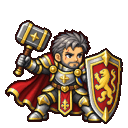
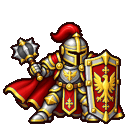
Webの版を更新（2026-10-20 09:13）

diff --git a/index.html b/index.html
@@ -10,7 +10,7 @@
   <meta name="theme-color" content="#161c28">
   <meta name="format-detection" content="telephone=no">
   <title>セルトリア戦記 SELTRIA CHRONICLES</title>
-  <link rel="stylesheet" href="css/style.css?v=20261020c">
+  <link rel="stylesheet" href="css/style.css?v=20261020d">
 </head>
 <body>
   <div id="app">
@@ -106,29 +106,29 @@
     </div>
   </div>
 
-  <script src="js/data/terrain.js?v=20261020c"></script>
-  <script src="js/data/units.js?v=20261020c"></script>
-  <script src="js/data/regulars.js?v=20261020c"></script>
-  <script src="js/data/stages.js?v=20261020c"></script>
-  <script src="js/data/assets.js?v=20261020c"></script>
-  <script src="js/rules/movement.js?v=20261020c"></script>
-  <script src="js/rules/combat.js?v=20261020c"></script>
-  <script src="js/rules/prayer.js?v=20261020c"></script>
-  <script src="js/rules/economy.js?v=20261020c"></script>
-  <script src="js/rules/regulars.js?v=20261020c"></script>
-  <script src="js/rules/game.js?v=20261020c"></script>
-  <script src="js/rules/ai.js?v=20261020c"></script>
-  <script src="js/save.js?v=20261020c"></script>
-  <script src="js/ui/sound.js?v=20261020c"></script>
-  <script src="js/ui/render.js?v=20261020c"></script>
-  <script src="js/ui/screens.js?v=20261020c"></script>
-  <script src="js/ui/battle-scene.js?v=20261020c"></script>
-  <script src="js/ui/hire-scene.js?v=20261020c"></script>
-  <script src="js/ui/summon-scene.js?v=20261020c"></script>
-  <script src="js/ui/rankup-scene.js?v=20261020c"></script>
-  <script src="js/ui/capture-scene.js?v=20261020c"></script>
-  <script src="js/ui/overview.js?v=20261020c"></script>
-  <script src="js/ui/input.js?v=20261020c"></script>
-  <script src="js/main.js?v=20261020c"></script>
+  <script src="js/data/terrain.js?v=20261020d"></script>
+  <script src="js/data/units.js?v=20261020d"></script>
+  <script src="js/data/regulars.js?v=20261020d"></script>
+  <script src="js/data/stages.js?v=20261020d"></script>
+  <script src="js/data/assets.js?v=20261020d"></script>
+  <script src="js/rules/movement.js?v=20261020d"></script>
+  <script src="js/rules/combat.js?v=20261020d"></script>
+  <script src="js/rules/prayer.js?v=20261020d"></script>
+  <script src="js/rules/economy.js?v=20261020d"></script>
+  <script src="js/rules/regulars.js?v=20261020d"></script>
+  <script src="js/rules/game.js?v=20261020d"></script>
+  <script src="js/rules/ai.js?v=20261020d"></script>
+  <script src="js/save.js?v=20261020d"></script>
+  <script src="js/ui/sound.js?v=20261020d"></script>
+  <script src="js/ui/render.js?v=20261020d"></script>
+  <script src="js/ui/screens.js?v=20261020d"></script>
+  <script src="js/ui/battle-scene.js?v=20261020d"></script>
+  <script src="js/ui/hire-scene.js?v=20261020d"></script>
+  <script src="js/ui/summon-scene.js?v=20261020d"></script>
+  <script src="js/ui/rankup-scene.js?v=20261020d"></script>
+  <script src="js/ui/capture-scene.js?v=20261020d"></script>
+  <script src="js/ui/overview.js?v=20261020d"></script>
+  <script src="js/ui/input.js?v=20261020d"></script>
+  <script src="js/main.js?v=20261020d"></script>
 </body>
 </html>

diff --git a/js/data/assets.js b/js/data/assets.js
@@ -92,6 +92,7 @@
         highElf: { map: 'assets64/units/unit_highElf_fina_player.png', battle: 'assets64/battle/battle_highElf_fina_player.png' }
       },
       gail: {
+        knight: { map: 'assets64/units/unit_knight_gail_player.png', battle: 'assets64/battle/battle_knight_gail_player.png' },
         general: { map: 'assets64/units/unit_general_gail_player.png', battle: 'assets64/battle/battle_general_gail_player.png' }
       }
     },
@@ -153,7 +154,7 @@
       },
       // 戦闘用の絵が、まだ隊長の顔のままのクラス（一般の兵の絵が届いたら、ここから外す）。
       // 正規部隊は先頭だけ隊長の姿で、残りは一般の兵の絵になるが、ここにあるクラスは全員を隊長の姿にする（js/ui/battle-scene.js）
-      captainLook: ['general', 'dragonKnight']   // 僧侶・プリースト・魔法使い・ウィザード・エルフ・ハイエルフは、一般の兵の絵が届いた（2026-10-19）
+      captainLook: ['dragonKnight']   // 僧侶・プリースト・魔法使い・ウィザード・エルフ・ハイエルフ（2026-10-19）、ジェネラル（2026-10-20）は、一般の兵の絵が届いた
     }
   };
 })(typeof window !== 'undefined' ? window : globalThis);
